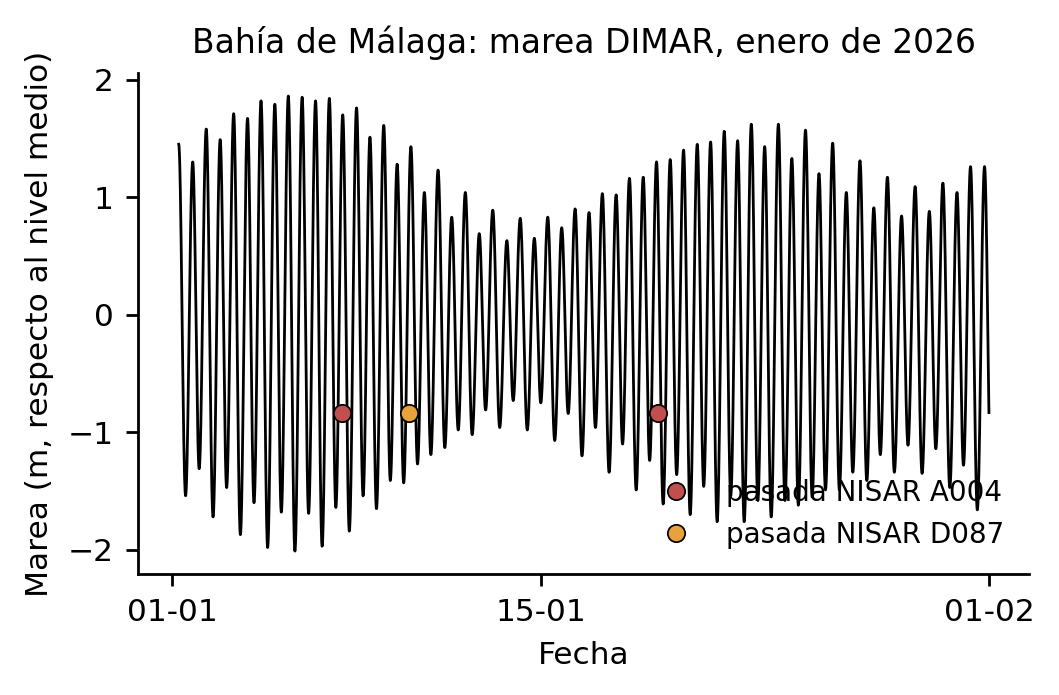
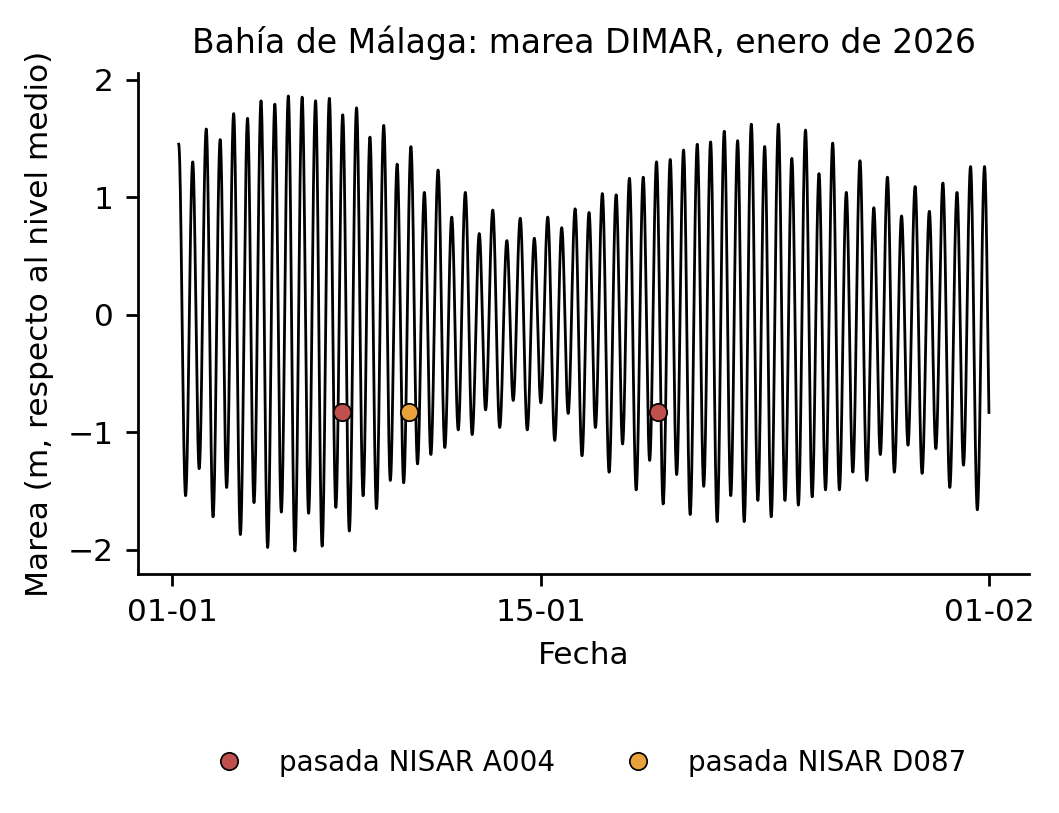
Leyenda de la marea fuera de la curva

diff --git a/figuras/figuras para flujo/exportar_series.py b/figuras/figuras para flujo/exportar_series.py
@@ -34,7 +34,7 @@ ax.set_ylabel("Marea (m, respecto al nivel medio)")
 ax.set_xlabel("Fecha")
 ax.set_xticks(pd.to_datetime(["2026-01-01", "2026-01-15", "2026-02-01"])); ax.set_xticklabels(["01-01", "15-01", "01-02"])
 ax.set_title("Bahía de Málaga: marea DIMAR, enero de 2026", fontsize=9.5)
-ax.legend(frameon=False, fontsize=8, loc="lower right")
+ax.legend(frameon=False, fontsize=8, loc="upper center", bbox_to_anchor=(0.5, -0.3), ncol=2)
 for s in ["top", "right"]:
     ax.spines[s].set_visible(False)
 fig.savefig(os.path.join(AQUI, "11_marea_malaga_ene2026.png"), dpi=250, bbox_inches="tight", facecolor="white")
